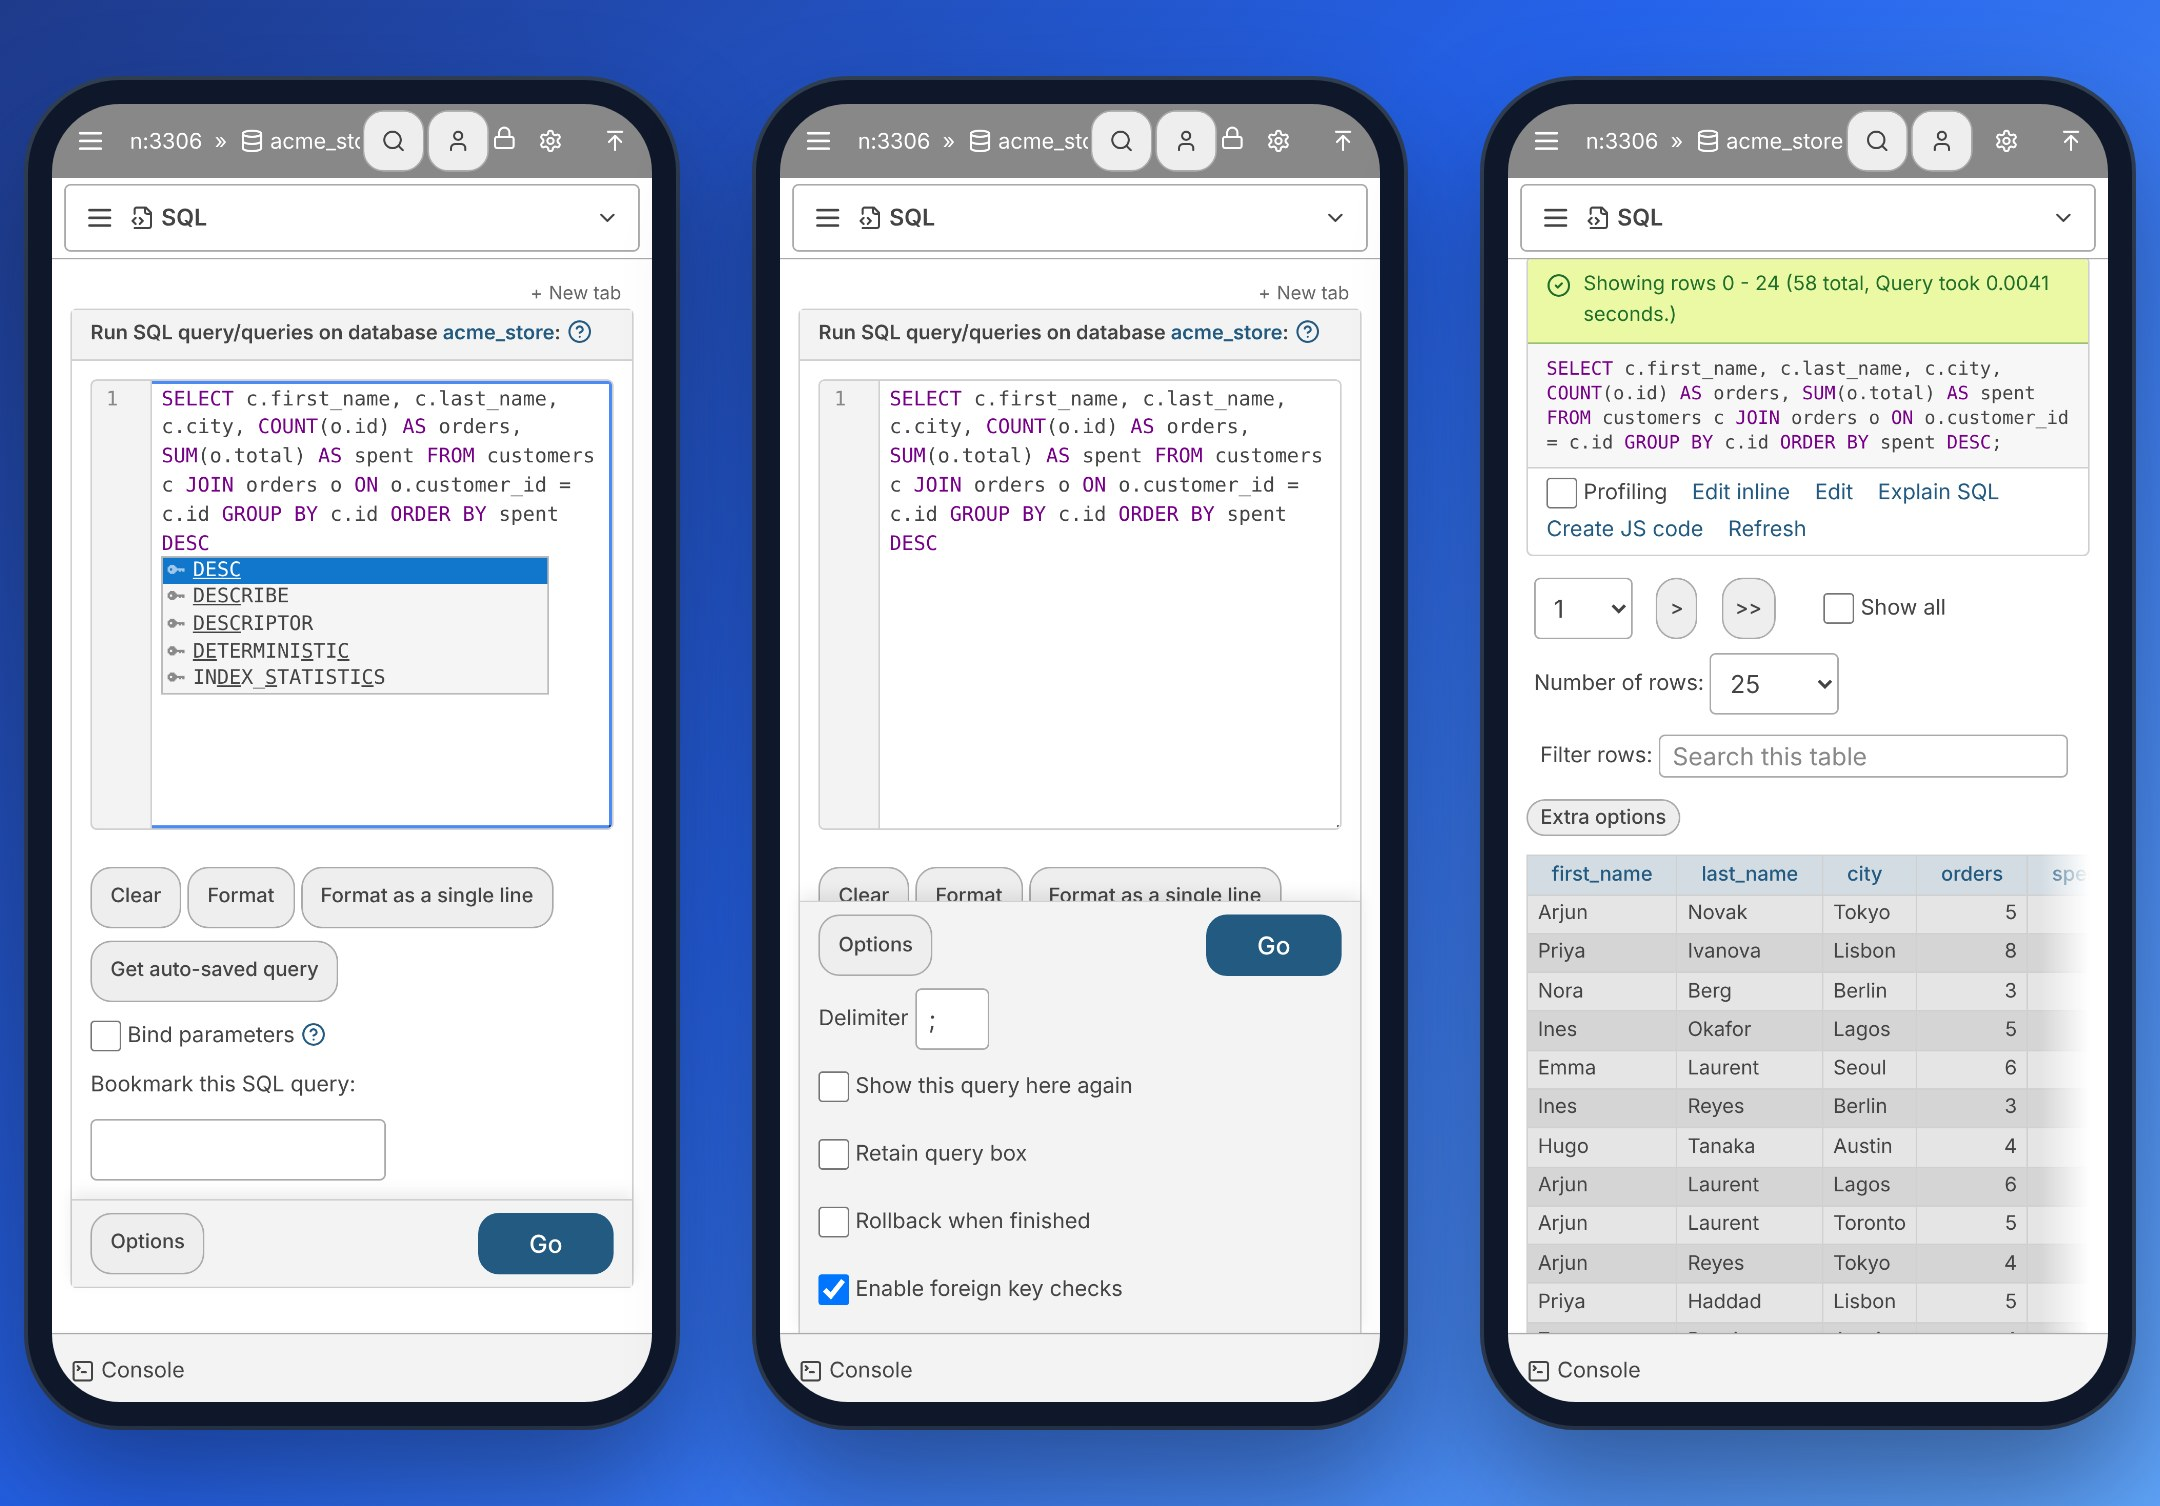
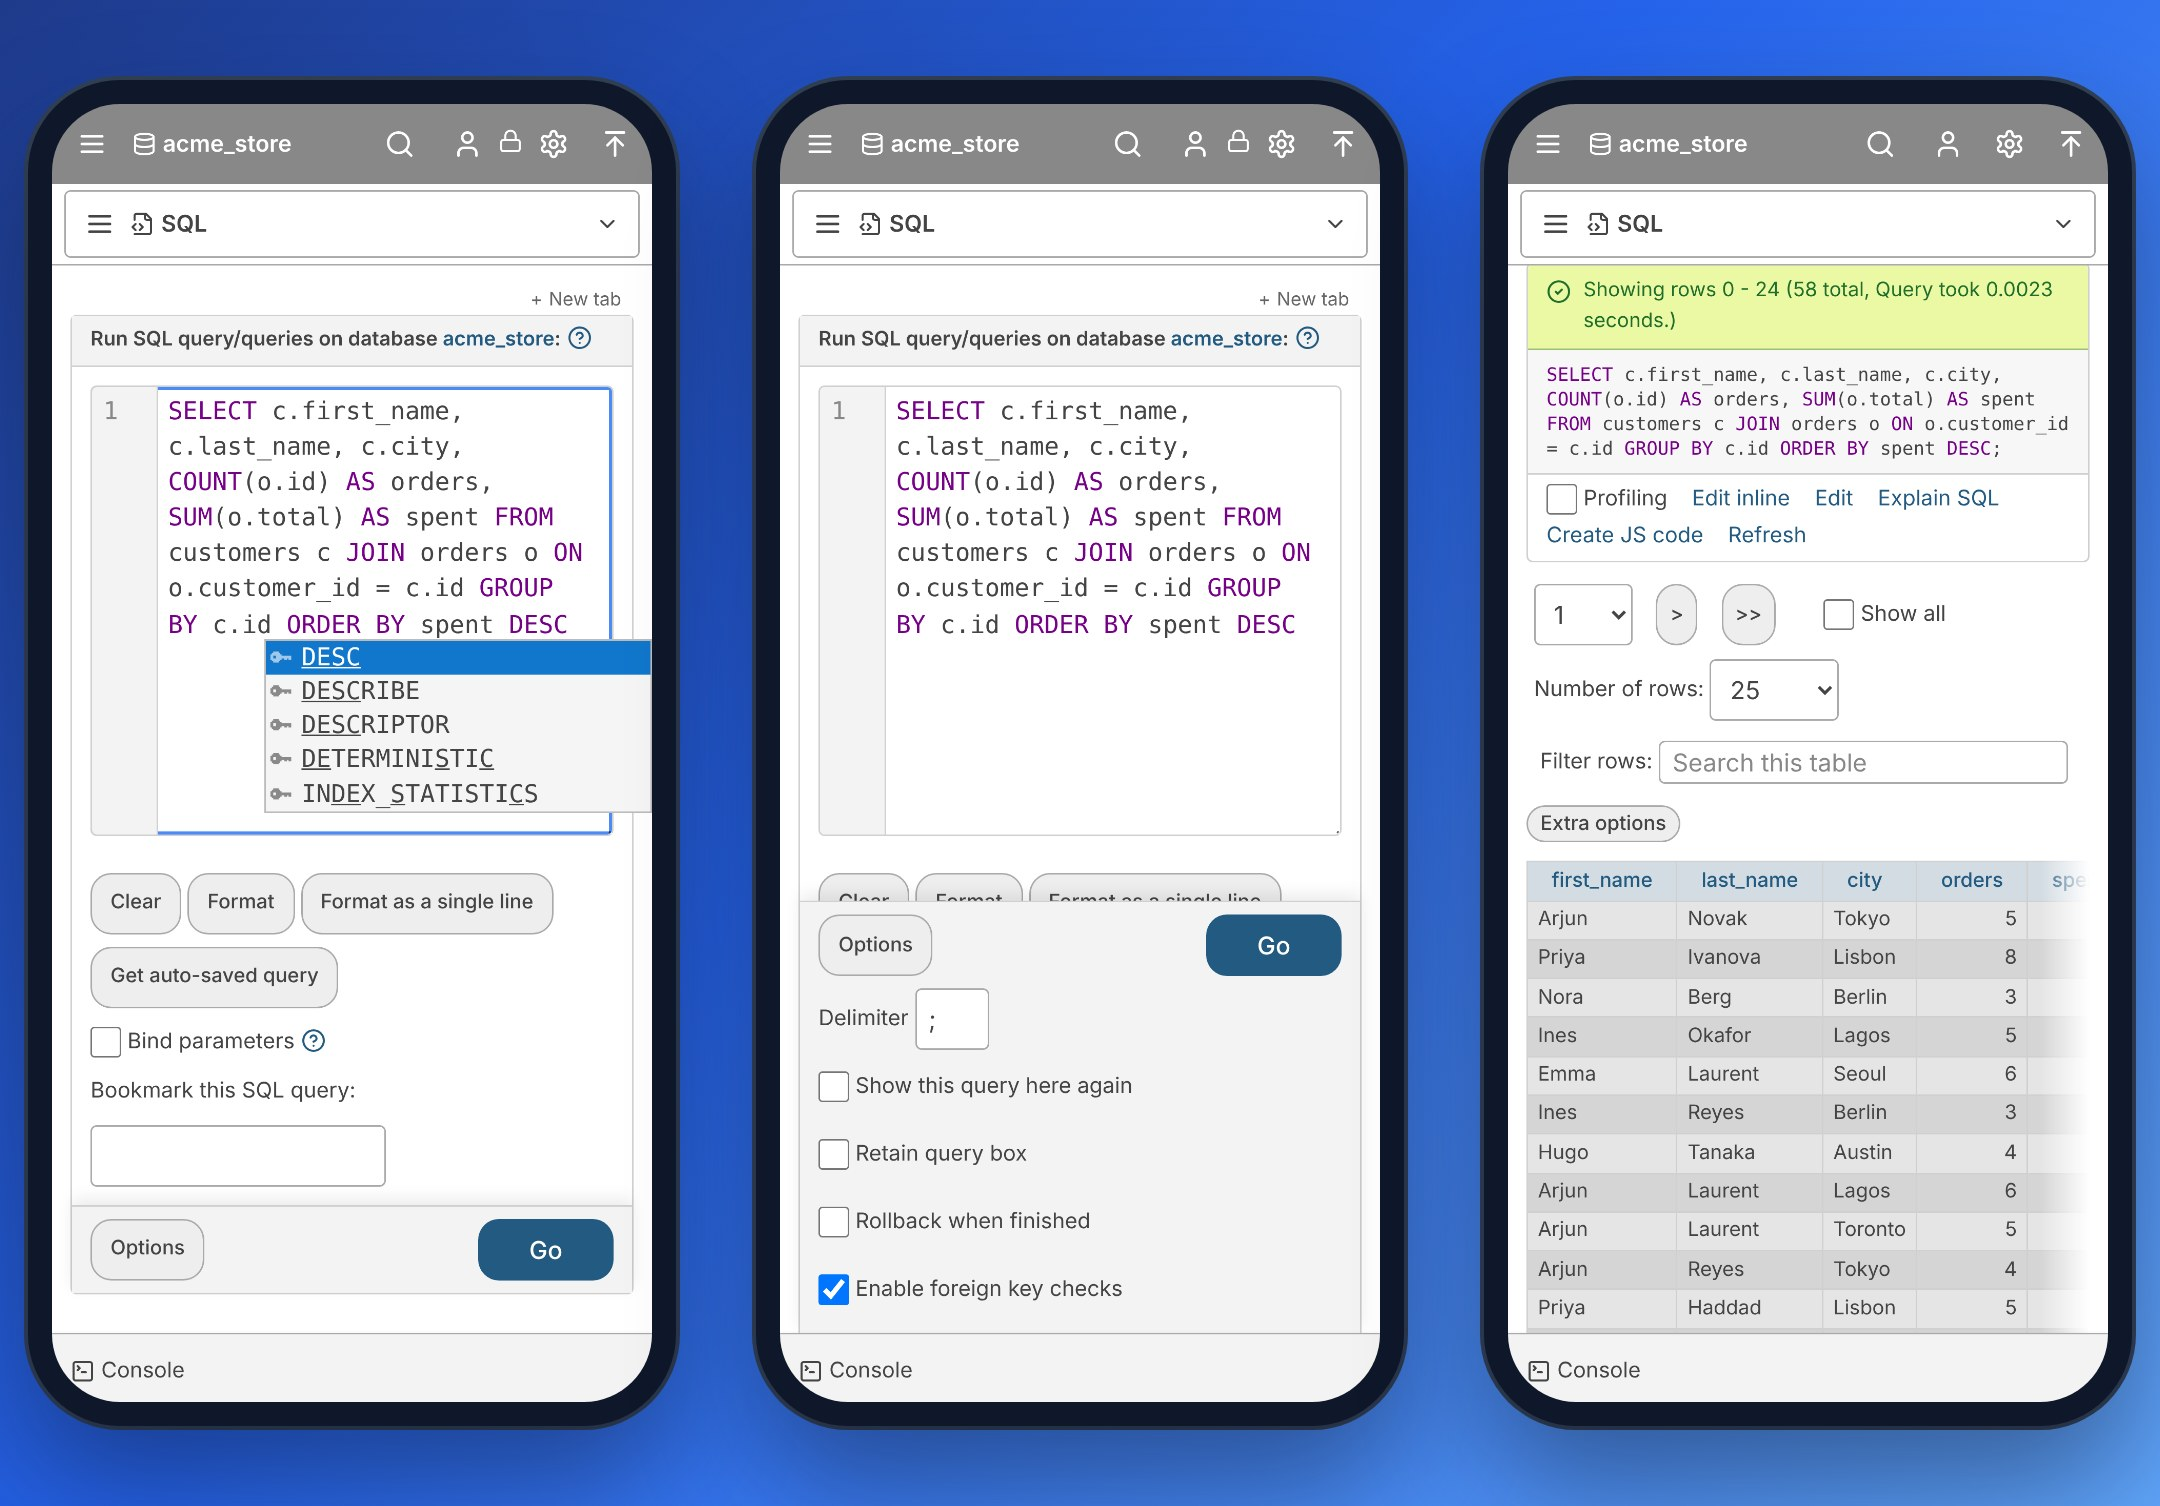
Phone top bar: one aligned row, a readable breadcrumb, matching page buttons
The breadcrumb scrolled sideways and was cut mid-word (Native's capsule
had no room to its edge), the search and user buttons were boxed while
settings and top were not, and the drawer button sat above the bar's
centre (Native's own padding made the bar taller).

On phones the bar is one 52px row in every theme with the drawer button
centred. The breadcrumb never scrolls: inside a database the server
segment goes; on a table it is a two-line title, the database small
above the table; long names end in an ellipsis. The four page buttons
are borderless 40px buttons in the bar's colour. README phone screenshots
retaken.

Claude-Session: https://claude.ai/code/session_016YE52bG3MYFauvkA4kmDur

diff --git a/apps/web/src/styles/mobile-shell.css b/apps/web/src/styles/mobile-shell.css
@@ -13,43 +13,151 @@
   /* ------------------------------------------------------------------------------------------- */
   /* top bar                                                                                      */
   /* ------------------------------------------------------------------------------------------- */
-  .bma-topbar {
-    min-height: calc(48px + env(safe-area-inset-top));
-    gap: 2px;
+  /* one 52px row in every theme (:root … doubled class: above a theme's own padding), the
+     drawer button (fixed, .bma-nav-toggle) centred in it */
+  :root .bma-topbar.bma-topbar {
+    box-sizing: border-box;
+    height: calc(52px + env(safe-area-inset-top));
+    min-height: 0;
+    gap: 4px;
     padding-top: env(safe-area-inset-top);
     padding-bottom: 0;
-    padding-inline-start: calc(50px + env(safe-area-inset-left));
+    padding-inline-start: calc(52px + env(safe-area-inset-left));
     padding-inline-end: calc(4px + env(safe-area-inset-right));
   }
-  #server-breadcrumb ol {
-    flex-wrap: nowrap;
-    overflow-x: auto;
-    overscroll-behavior-x: contain;
-    scrollbar-width: none;
-    white-space: nowrap;
-    font-size: 14px;
+  /* the breadcrumb: one line, no sideways scrolling. Inside a database the server segment goes (the
+     drawer and Home have it), so it reads "database › table"; a long database name ends in "…"
+     before the current table does. Comments are left out. */
+  #floating_menubar {
+    display: flex;
+    min-width: 0;
+    align-items: center;
   }
-  #server-breadcrumb ol::-webkit-scrollbar {
+  #server-breadcrumb {
+    display: flex;
+    min-width: 0;
+    max-width: 100%;
+  }
+  :root #server-breadcrumb ol {
+    flex-wrap: nowrap;
+    min-width: 0;
+    max-width: 100%;
+    overflow: hidden;
+    white-space: nowrap;
+    font-size: 15px;
+  }
+  #server-breadcrumb .breadcrumb-comment {
     display: none;
   }
-  #server-breadcrumb :is(.breadcrumb-item, .breadcrumb-comment) {
+  #server-breadcrumb ol > li.breadcrumb-item:first-child:not(:last-of-type) {
+    display: none;
+  }
+  #server-breadcrumb ol > li.breadcrumb-item:nth-child(2) .breadcrumb-divider {
+    display: none;
+  }
+  #server-breadcrumb ol > li.breadcrumb-item {
+    display: flex;
+    flex: 0 1 auto;
+    min-width: 0;
+    align-items: center;
+  }
+  #server-breadcrumb ol > li.breadcrumb-item:last-of-type {
     flex-shrink: 0;
+    max-width: 72%;
+  }
+  #server-breadcrumb ol > li.breadcrumb-item:only-of-type,
+  #server-breadcrumb ol > li.breadcrumb-item:first-child:not(:last-of-type) + li:last-of-type {
+    max-width: 100%;
+  }
+  #server-breadcrumb :is(.icon, .breadcrumb-divider) {
+    flex: none;
   }
   #server-breadcrumb a {
-    display: inline-flex;
-    align-items: center;
-    min-height: 40px;
+    display: block;
+    min-width: 0;
+    overflow: hidden;
+    text-overflow: ellipsis;
+    line-height: 40px;
   }
+  #server-breadcrumb li:last-of-type a {
+    font-weight: 600;
+  }
+  /* a table: a two-line title, the database small above the table (both whole, each ends in
+     "…" only past the bar's width) */
+  :root #server-breadcrumb ol:has(> li:nth-child(3)) {
+    flex-direction: column;
+    align-items: flex-start;
+    justify-content: center;
+    gap: 0;
+  }
+  #server-breadcrumb ol:has(> li:nth-child(3)) > li.breadcrumb-item {
+    max-width: 100%;
+  }
+  #server-breadcrumb ol:has(> li:nth-child(3)) .breadcrumb-divider {
+    display: none;
+  }
+  #server-breadcrumb ol:has(> li:nth-child(3)) > li:nth-child(2) {
+    font-size: 12px;
+    opacity: 0.8;
+  }
+  #server-breadcrumb ol:has(> li:nth-child(3)) > li:nth-child(2) a {
+    line-height: 16px;
+  }
+  #server-breadcrumb ol:has(> li:nth-child(3)) > li:nth-child(2) .icon {
+    width: 12px;
+    height: 12px;
+  }
+  #server-breadcrumb ol:has(> li:nth-child(3)) > li:last-of-type a {
+    line-height: 20px;
+  }
+  /* native: the connection capsule, padded, as tall as the buttons beside it */
+  :root[data-theme="native"] #server-breadcrumb ol,
+  [data-theme="native"] #server-breadcrumb ol {
+    height: 36px;
+    align-items: center;
+    padding: 0 12px;
+    font-size: 13px;
+  }
+  [data-theme="native"] #server-breadcrumb a {
+    line-height: 34px;
+  }
+  /* the page icons: four alike, borderless 40px buttons in the bar's own colour */
   #page_nav_icons,
   #page_nav_icons > span {
-    gap: 2px;
+    gap: 0;
   }
-  :is(#bma_command_palette, #userAccountDropdown > button, #page_settings_icon > button, #goto_pagetop) {
+  :root
+    .bma-topbar
+    :is(#bma_command_palette, #userAccountDropdown > button, #page_settings_icon > button, #goto_pagetop) {
     display: inline-flex;
     align-items: center;
     justify-content: center;
+    width: 40px;
     min-width: 40px;
+    height: 40px;
     min-height: 40px;
+    padding: 0;
+    border: 0;
+    border-radius: 8px;
+    background: transparent;
+    box-shadow: none;
+    color: var(--breadcrumb-fg);
+  }
+  :root
+    .bma-topbar
+    :is(#bma_command_palette, #userAccountDropdown > button, #page_settings_icon > button, #goto_pagetop):is(
+      :hover,
+      :active,
+      [aria-expanded="true"]
+    ) {
+    background: color-mix(in srgb, currentColor 14%, transparent);
+  }
+  :root
+    .bma-topbar
+    :is(#bma_command_palette, #userAccountDropdown > button, #page_settings_icon > button, #goto_pagetop)
+    svg {
+    width: 20px;
+    height: 20px;
   }
   #lock_page_icon:empty {
     display: none;
@@ -64,8 +172,8 @@
   }
   .bma-nav-toggle {
     position: fixed;
-    top: calc(4px + env(safe-area-inset-top));
-    inset-inline-start: calc(5px + env(safe-area-inset-left));
+    top: calc(6px + env(safe-area-inset-top));
+    inset-inline-start: calc(6px + env(safe-area-inset-left));
     z-index: 30;
     display: inline-flex;
     align-items: center;

diff --git a/apps/web/src/features/shell/Breadcrumb.tsx b/apps/web/src/features/shell/Breadcrumb.tsx
@@ -1,6 +1,6 @@
 import { PmaIcon, iconParts, useUiSettings } from '@bettermyadmin/ui'
 import { Link } from '@tanstack/react-router'
-import { type MouseEvent, type ReactNode, useEffect, useRef } from 'react'
+import type { MouseEvent, ReactNode } from 'react'
 import { useConfig } from '../../lib/config.ts'
 import { t } from '../../lib/i18n'
 import { useIsMobile } from '../../lib/mobile'
@@ -47,16 +47,9 @@ export function Breadcrumb({
   const comment =
     table !== '' ? (tblScope.data?.comment ?? '') : db !== '' ? (dbScope.data?.comment ?? '') : ''
 
-  // phones: one line that scrolls sideways, kept at its end (the current table or database); the
-  // "Server:" / "Database:" prefixes stay for screen readers when an icon already says it
+  // phones: one line (styles/mobile-shell.css); the "Server:" / "Database:" prefixes stay for screen
+  // readers when an icon already says it
   const mobile = useIsMobile()
-  const list = useRef<HTMLOListElement>(null)
-  // biome-ignore lint/correctness/useExhaustiveDependencies: a new trail scrolls to its end again
-  useEffect(() => {
-    const ol = list.current
-    if (!mobile || ol === null) return
-    ol.scrollLeft = getComputedStyle(ol).direction === 'rtl' ? -ol.scrollWidth : ol.scrollWidth
-  }, [mobile, name, db, table, comment])
   const prefix = (text: string): ReactNode =>
     mobile && parts.icon ? <span className="sr-only">{text}</span> : text
 
@@ -68,7 +61,7 @@ export function Breadcrumb({
       onClick={onBarClick}
       className="breadcrumb-navbar min-w-0"
     >
-      <ol ref={list} className="flex min-w-0 flex-wrap items-center gap-x-1 text-[13px]">
+      <ol className="flex min-w-0 flex-wrap items-center gap-x-1 text-[13px]">
         <li className="breadcrumb-item inline-flex items-center gap-1">
           {parts.icon && <PmaIcon name="s_host" />}
           <Link to={serverHref} data-raw-text={name} draggable={false}>

diff --git a/CHANGELOG.md b/CHANGELOG.md
@@ -9,6 +9,11 @@ All notable changes to BetterMyAdmin. Versions follow [Semantic Versioning](http
 - Phone layout: the SQL editor's text is 16px, so iOS Safari no longer zooms the page in when you
   tap it (the zoom pushed the editor past the screen and Go out of view). The on-screen keyboard
   is measured against the page's own height, which a zoom does not change.
+- Phone layout: a cleaner top bar in every theme. It is one 52px row with the menu button centred.
+  The breadcrumb no longer scrolls or cuts words: inside a database it shows the database, and on a
+  table a two-line title (the database small above the table name); long names end in "…". The
+  four page buttons (search, user, settings, top) are alike, borderless 40px buttons. The Native
+  theme's capsule is padded.
 
 ## 1.0.24 (2026-11-02)
 
